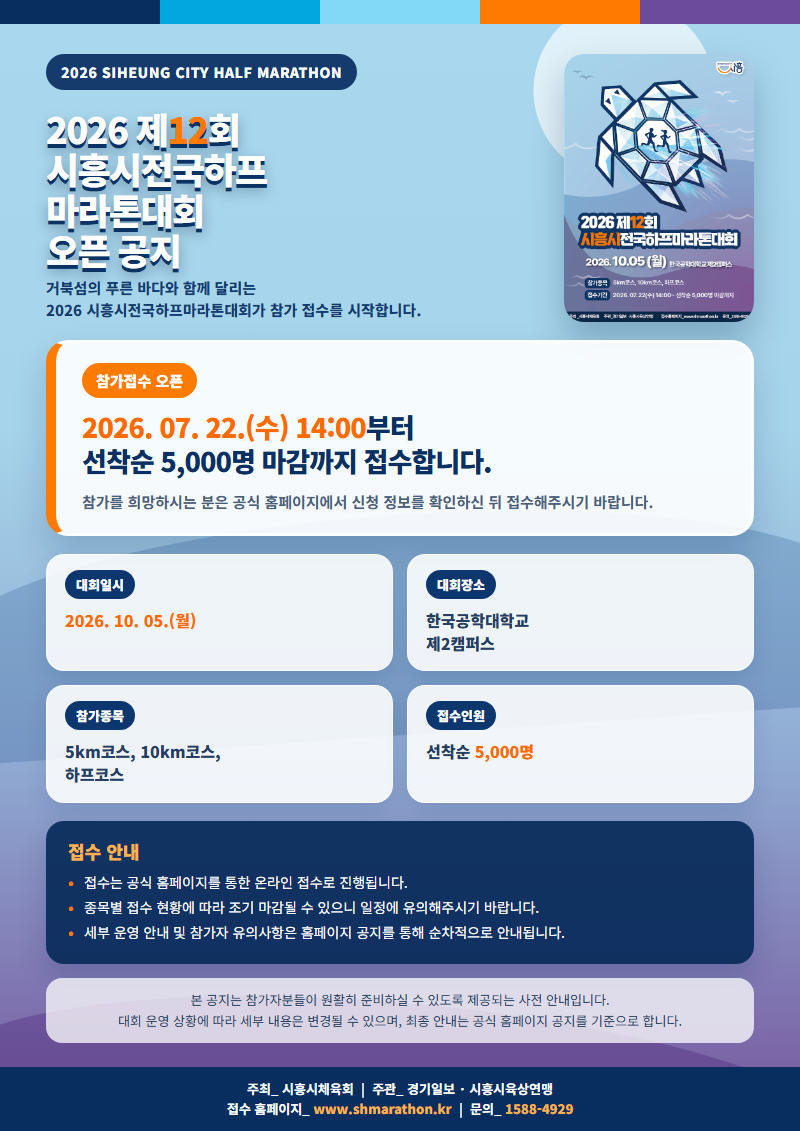
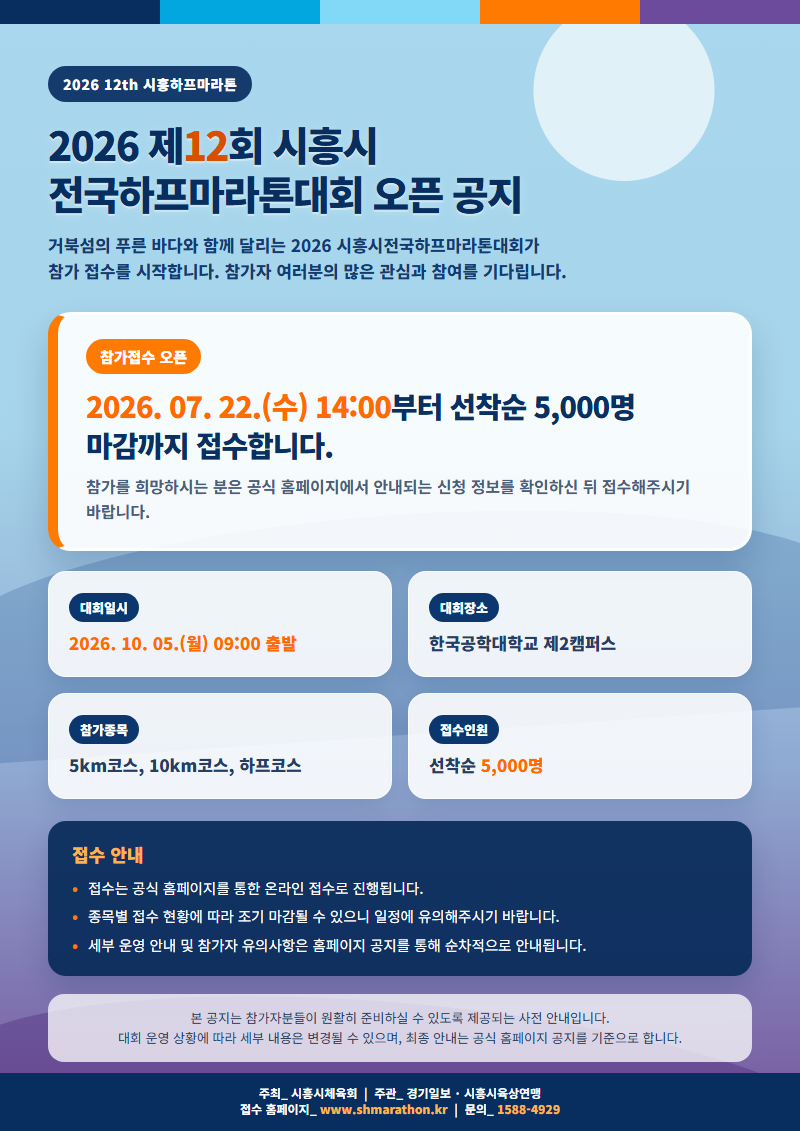
.

diff --git a/shmarathon/notice.html b/shmarathon/notice.html
@@ -79,14 +79,15 @@
         .shn-notice__content {
             position: relative;
             z-index: 3;
-            flex: 1;
+            flex: 1 1 auto;
+            min-height: 0;
             display: flex;
             flex-direction: column;
-            padding: 40px 46px 24px; /* 키비주얼 제거에 따른 상단 패딩 소폭 조정 */
+            padding: 42px 48px 24px;
         }
 
         .shn-notice__header {
-            margin-bottom: 24px;
+            margin-bottom: 28px;
         }
 
         .shn-notice__eyebrow {
@@ -94,7 +95,7 @@
             align-items: center;
             width: fit-content;
             padding: 8px 15px;
-            margin-bottom: 16px;
+            margin-bottom: 18px;
             border-radius: 999px;
             background: rgba(8, 46, 95, .92);
             color: #fff;
@@ -105,8 +106,8 @@
 
         .shn-notice__title {
             color: #082e5f;
-            font-size: 38px;
-            line-height: 1.25;
+            font-size: 40px;
+            line-height: 1.22;
             font-weight: 950;
             letter-spacing: -0.045em;
             text-shadow:
@@ -119,11 +120,12 @@
         }
 
         .shn-notice__subtitle {
-            margin-top: 12px;
+            margin-top: 14px;
             color: #153a70;
-            font-size: 16px;
+            font-size: 17px;
             font-weight: 800;
-            line-height: 1.45;
+            line-height: 1.55;
+            word-break: keep-all;
         }
 
         .shn-notice__open-card {
@@ -131,7 +133,7 @@
             border: 3px solid rgba(255,255,255,.75);
             border-left: 10px solid #ff7a00;
             border-radius: 22px;
-            padding: 22px 26px;
+            padding: 24px 28px;
             box-shadow: 0 18px 34px rgba(7, 35, 84, .18);
             margin-bottom: 20px;
         }
@@ -148,11 +150,12 @@
         }
 
         .shn-notice__open-title {
-            font-size: 26px;
-            line-height: 1.35;
+            font-size: 29px;
+            line-height: 1.34;
             font-weight: 950;
             letter-spacing: -0.035em;
             color: #092f63;
+            word-break: keep-all;
         }
 
         .shn-notice__open-title strong {
@@ -161,7 +164,7 @@
 
         .shn-notice__open-desc {
             margin-top: 10px;
-            font-size: 15px;
+            font-size: 16px;
             font-weight: 700;
             color: #496079;
             line-height: 1.55;
@@ -171,16 +174,16 @@
         .shn-notice__info-grid {
             display: grid;
             grid-template-columns: repeat(2, minmax(0, 1fr));
-            gap: 14px;
-            margin-bottom: 20px;
+            gap: 16px;
+            margin-bottom: 22px;
         }
 
         .shn-notice__info-card {
-            min-height: 92px;
+            min-height: 106px;
             border-radius: 18px;
             background: rgba(255,255,255,.88);
             box-shadow: 0 10px 22px rgba(6, 38, 89, .12);
-            padding: 16px 20px;
+            padding: 18px 20px;
             border: 1px solid rgba(255,255,255,.72);
             display: flex;
             flex-direction: column;
@@ -200,8 +203,8 @@
         }
 
         .shn-notice__info-value {
-            font-size: 16px;
-            line-height: 1.4;
+            font-size: 17px;
+            line-height: 1.48;
             font-weight: 850;
             color: #263e63;
             word-break: keep-all;
@@ -215,8 +218,8 @@
             border-radius: 18px;
             background: rgba(7, 42, 89, .92);
             color: #fff;
-            padding: 18px 24px;
-            margin-bottom: 16px;
+            padding: 20px 24px;
+            margin-bottom: 18px;
             box-shadow: 0 14px 28px rgba(7, 35, 84, .18);
         }
 
@@ -234,8 +237,8 @@
         .shn-notice__notice-list li {
             position: relative;
             padding-left: 16px;
-            margin-bottom: 6px;
-            font-size: 14px;
+            margin-bottom: 7px;
+            font-size: 14.5px;
             line-height: 1.5;
             word-break: keep-all;
         }
@@ -268,16 +271,17 @@
         .shn-notice__footer-banner {
             position: relative;
             z-index: 4;
-            min-height: 62px;
+            flex: 0 0 58px;
+            min-height: 58px;
             background: #082e5f;
             color: #fff;
             display: flex;
             justify-content: center;
             align-items: center;
             text-align: center;
-            padding: 14px 22px;
-            font-size: 13px;
-            line-height: 1.55;
+            padding: 7px 22px 9px;
+            font-size: 12px;
+            line-height: 1.35;
             font-weight: 700;
         }
 
@@ -328,21 +332,21 @@
 
     <div class="shn-notice__content">
         <div class="shn-notice__header">
-            <div class="shn-notice__eyebrow">2026 SIHEUNG HALF MARATHON</div>
+            <div class="shn-notice__eyebrow">2026 12th 시흥하프마라톤</div>
             <h1 class="shn-notice__title">
-                2026 제<span class="shn-notice__title-orange">12</span>회 시흥시전국하프마라톤대회<br>
-                공식 참가 신청 오픈 공지
+                2026 제<span class="shn-notice__title-orange">12</span>회 시흥시<br>
+                전국하프마라톤대회 오픈 공지
             </h1>
             <p class="shn-notice__subtitle">
-                거북섬의 푸른 바다와 함께 달리는 2026 제12회 시흥시전국하프마라톤대회가 참가 접수를 시작합니다.
+                거북섬의 푸른 바다와 함께 달리는 2026 시흥시전국하프마라톤대회가<br>
+                참가 접수를 시작합니다. 참가자 여러분의 많은 관심과 참여를 기다립니다.
             </p>
         </div>
 
         <div class="shn-notice__open-card">
             <span class="shn-notice__open-label">참가접수 오픈</span>
             <div class="shn-notice__open-title">
-                <strong>2026. 07. 22.(수) 14:00부터</strong><br>
-                선착순 5,000명 마감시까지
+                <strong>2026. 07. 22.(수) 14:00</strong>부터 선착순 5,000명 마감까지 접수합니다.
             </div>
             <p class="shn-notice__open-desc">
                 참가를 희망하시는 분은 공식 홈페이지에서 안내되는 신청 정보를 확인하신 뒤 접수해주시기 바랍니다.

diff --git a/gcrun/notice.html b/gcrun/notice.html
@@ -300,7 +300,7 @@
             </div>
             <div class="gcn-notice__info-item">
                 <span class="gcn-notice__info-label">📝 접수시작</span>
-                <span class="gcn-notice__info-value gcn-notice__highlight">2026-07-20(월) 10:00</span>
+                <span class="gcn-notice__info-value gcn-notice__highlight">2026-07-20(월) 14:00</span>
             </div>
             <div class="gcn-notice__info-item">
                 <span class="gcn-notice__info-label">👥 참가인원</span>
